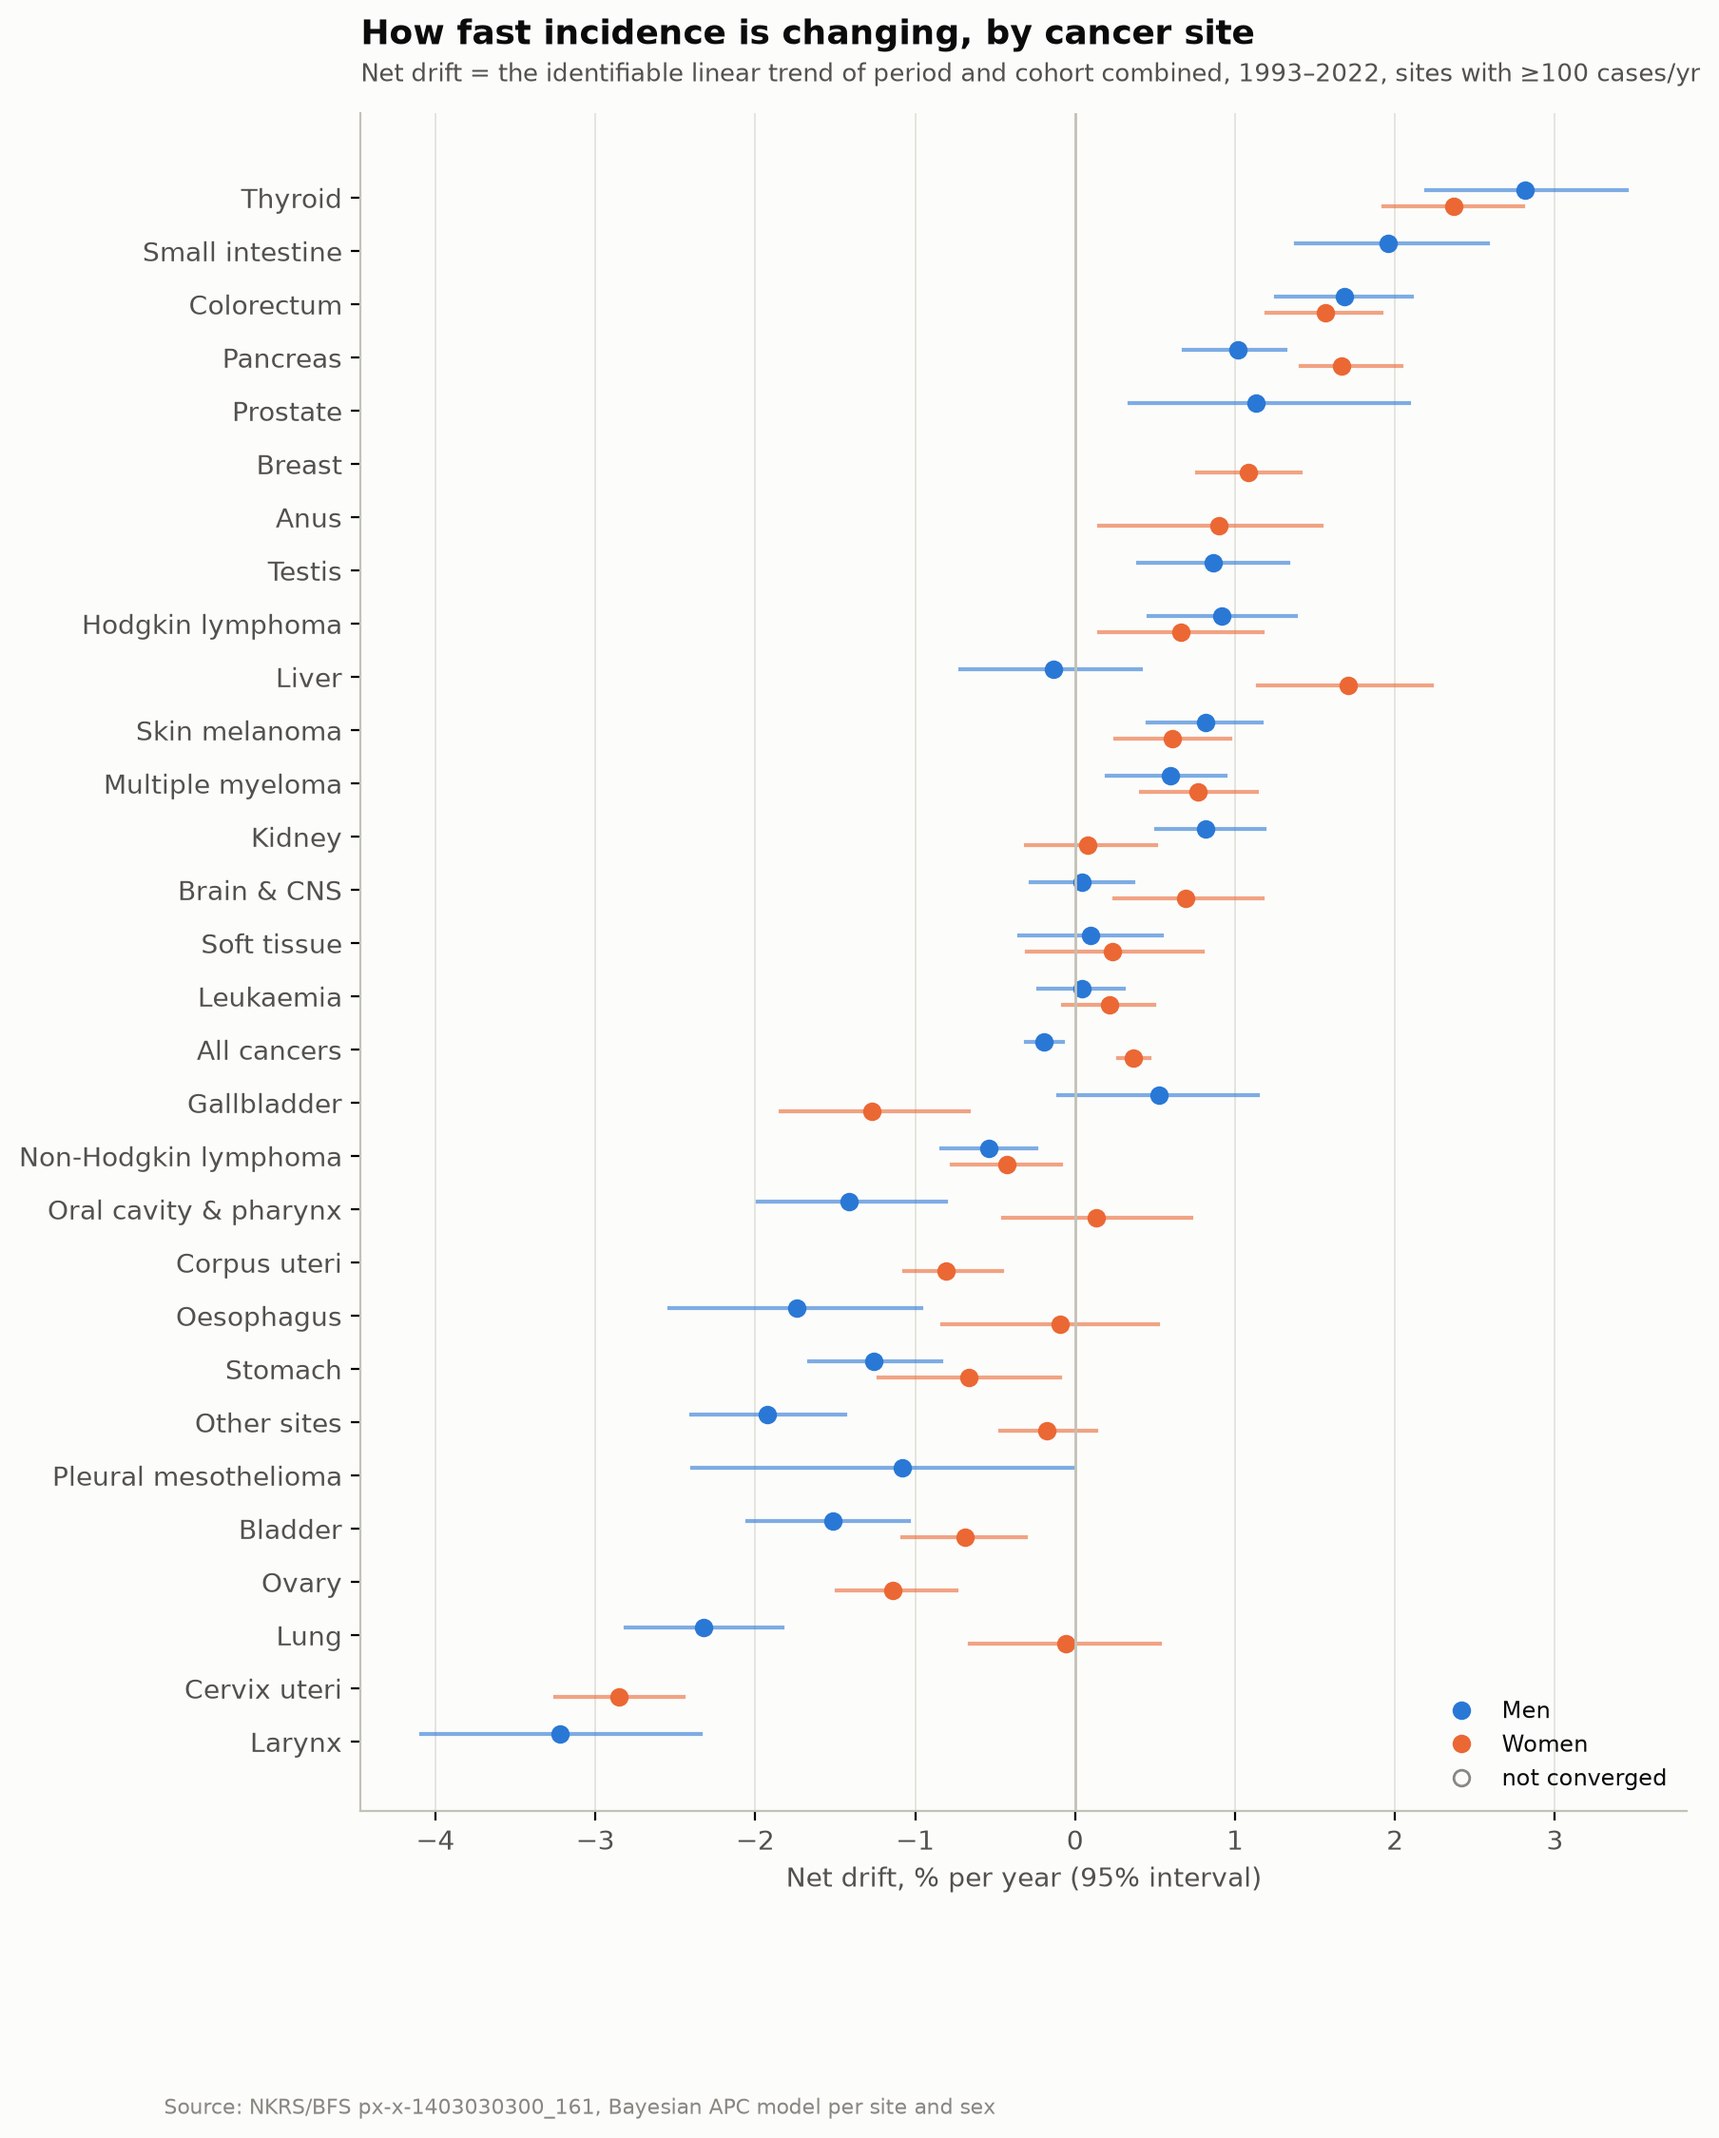
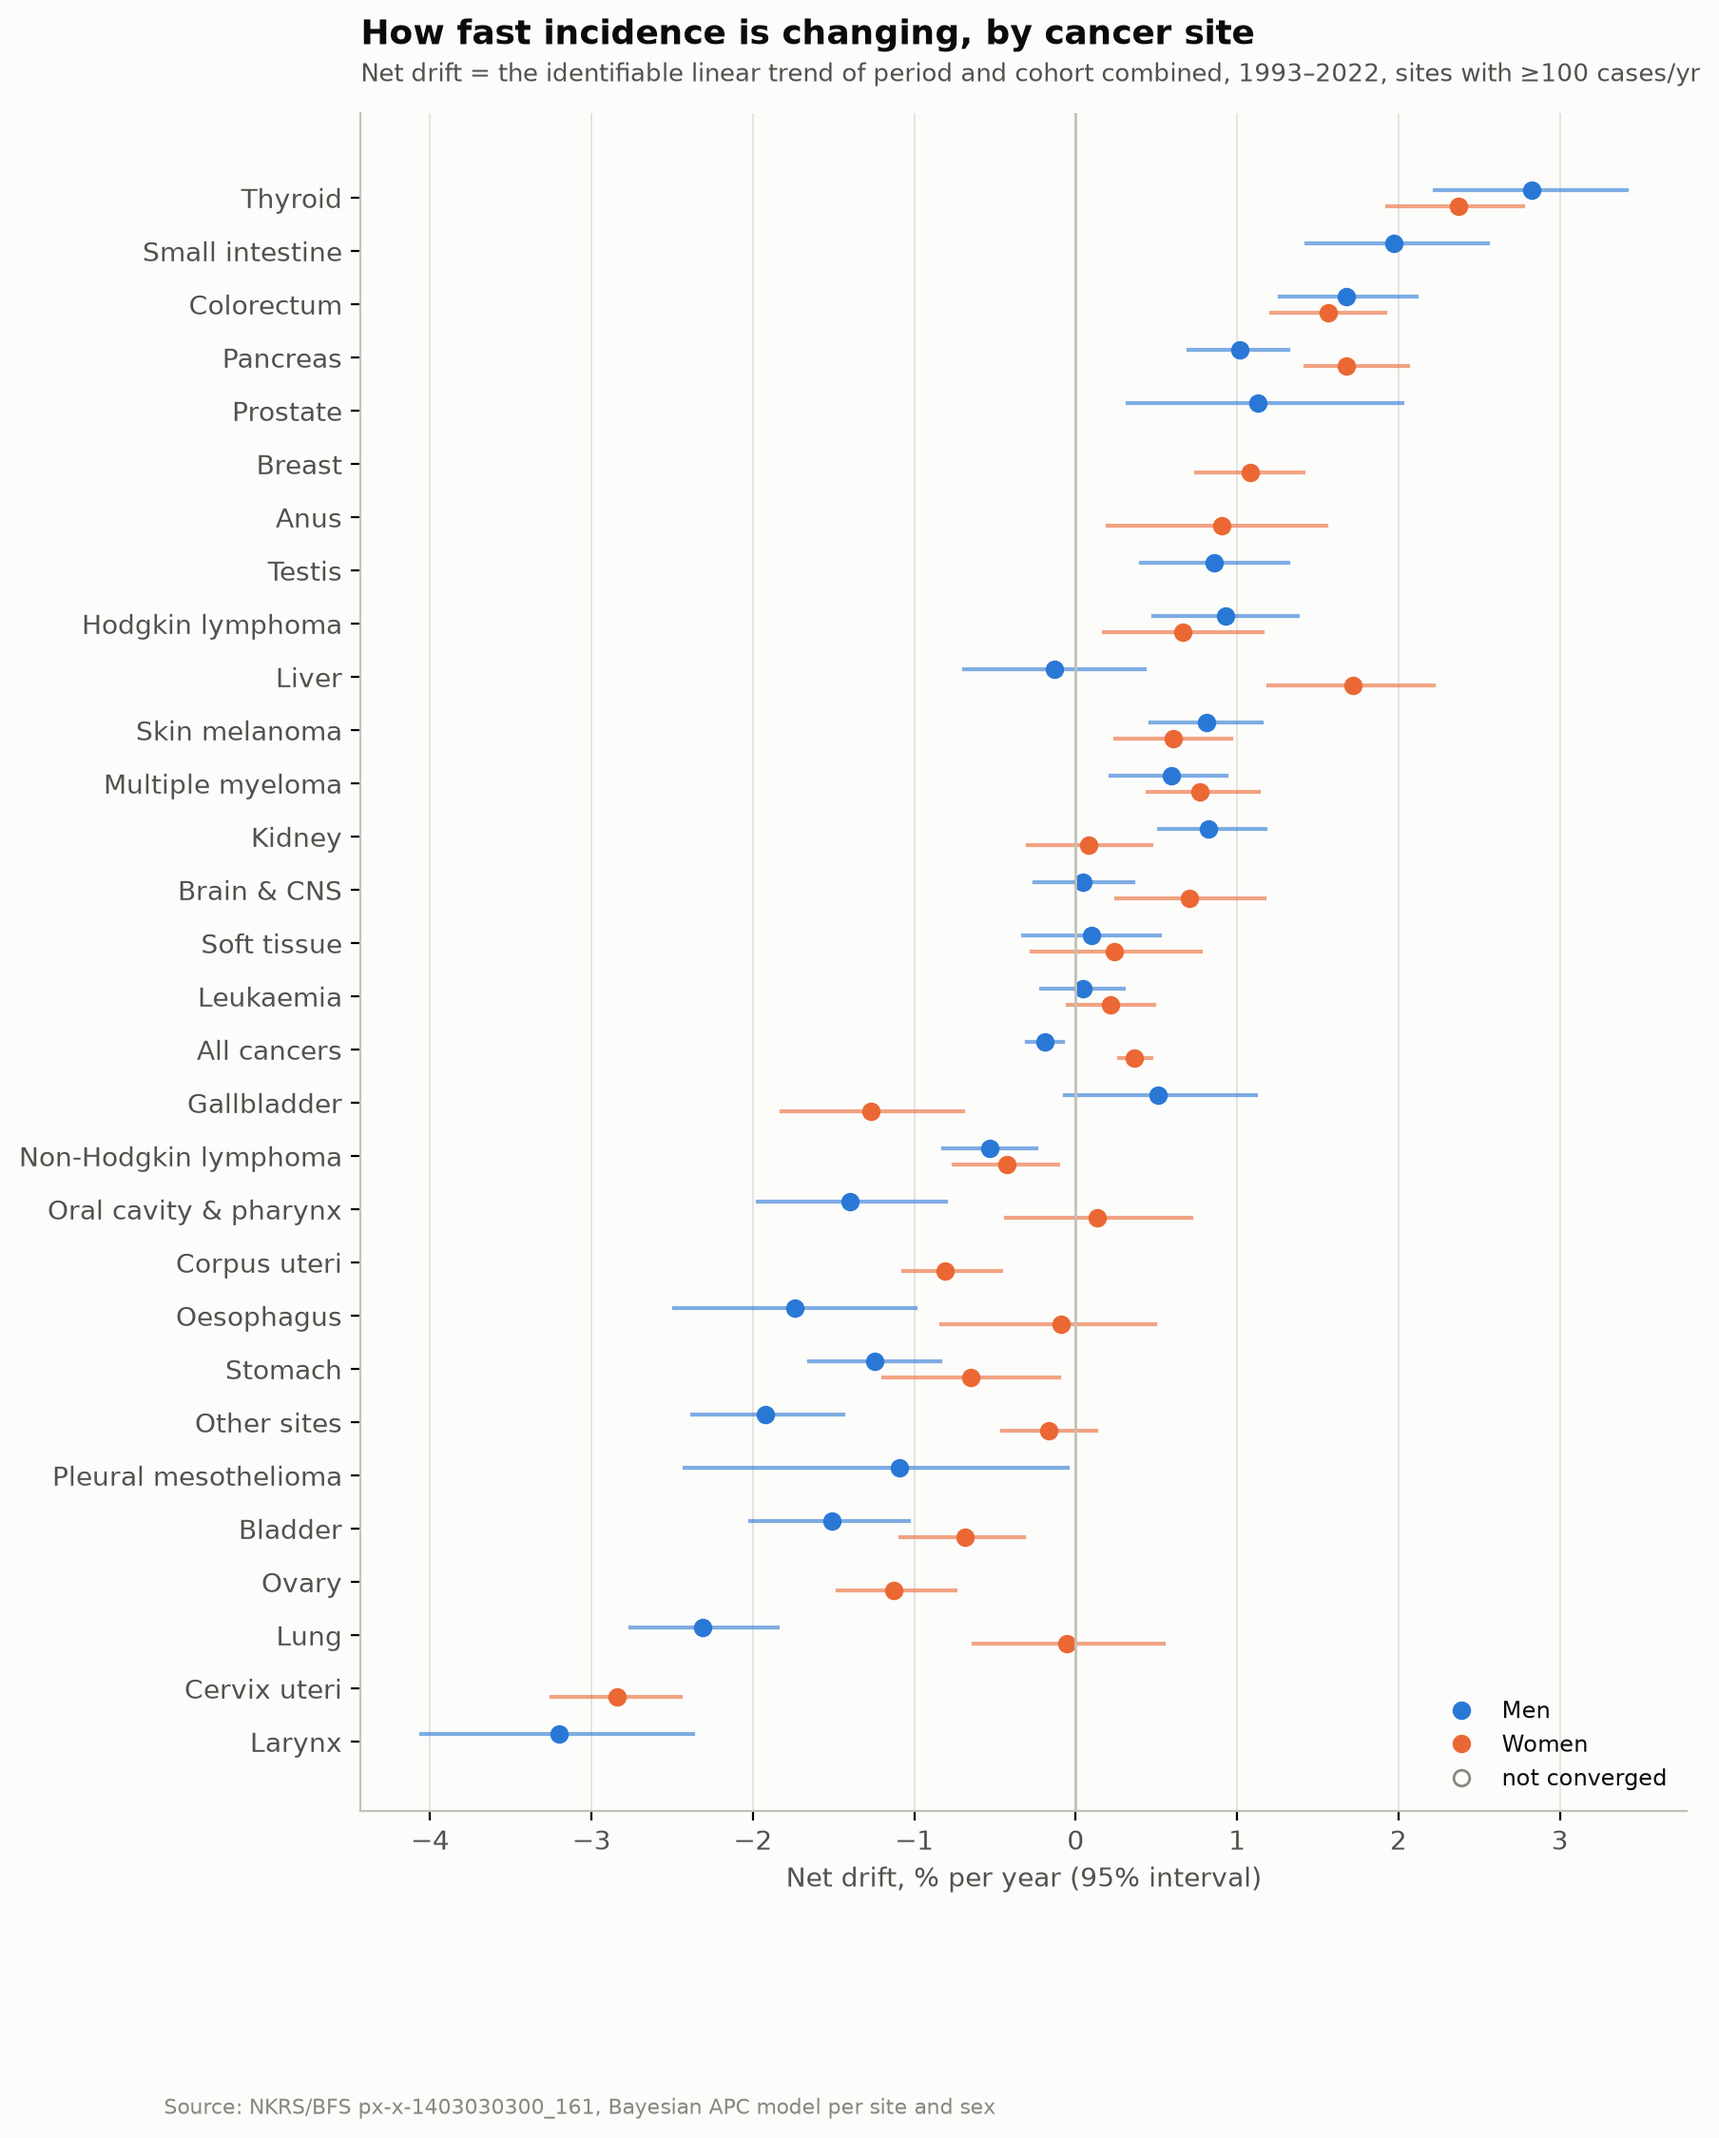
v1.1: MCMC diagnostics (ESS, BFMI), gate rhat<1.01, NUTS 4x2000 at 0.99, tests, CI; full sweep 214/214

Changed region(s): [[0.7124, 0.2179, 0.7434, 0.249]]

diff --git a/pipeline/s06_apc.py b/pipeline/s06_apc.py
@@ -178,7 +178,8 @@ def fit_one(site, sex, indicator, args):
     drift_yr = (np.exp(post.drift.values.ravel() / 5) - 1) * 100         # % per year
     out = {"site": site, "sex": sex, "indicator": indicator, "is_holdout": args.holdout,
            "n_cells": int(len(train)), "cases_per_year": float(g.cases_per_year.sum() / 6),
-           "chains": args.chains, "samples": args.samples, "seconds": round(secs, 1),
+           "chains": args.chains, "samples": args.samples, "warmup": args.warmup,
+           "target_accept": args.target_accept, "seed": args.seed, "seconds": round(secs, 1),
            "device": jax.devices()[0].platform, "divergences": div, "rhat_max": round(rhat_max, 3),
            "rhat_by_var": rhat_by_var, "ess_bulk_min": diag["ess_bulk_min"],
            "ess_tail_min": diag["ess_tail_min"], "ess_by_var": diag["ess_by_var"],
@@ -349,9 +350,9 @@ def main():
     ap.add_argument("--all", action="store_true"); ap.add_argument("--list", action="store_true")
     ap.add_argument("--index", type=int)
     ap.add_argument("--holdout", action="store_true"); ap.add_argument("--future", type=int, default=0)
-    ap.add_argument("--chains", type=int, default=4); ap.add_argument("--warmup", type=int, default=1000)
-    ap.add_argument("--samples", type=int, default=1000); ap.add_argument("--seed", type=int, default=1)
-    ap.add_argument("--target-accept", dest="target_accept", type=float, default=0.9)
+    ap.add_argument("--chains", type=int, default=4); ap.add_argument("--warmup", type=int, default=2000)
+    ap.add_argument("--samples", type=int, default=2000); ap.add_argument("--seed", type=int, default=1)
+    ap.add_argument("--target-accept", dest="target_accept", type=float, default=0.99)
     args = ap.parse_args()
 
     fl = fit_list()
